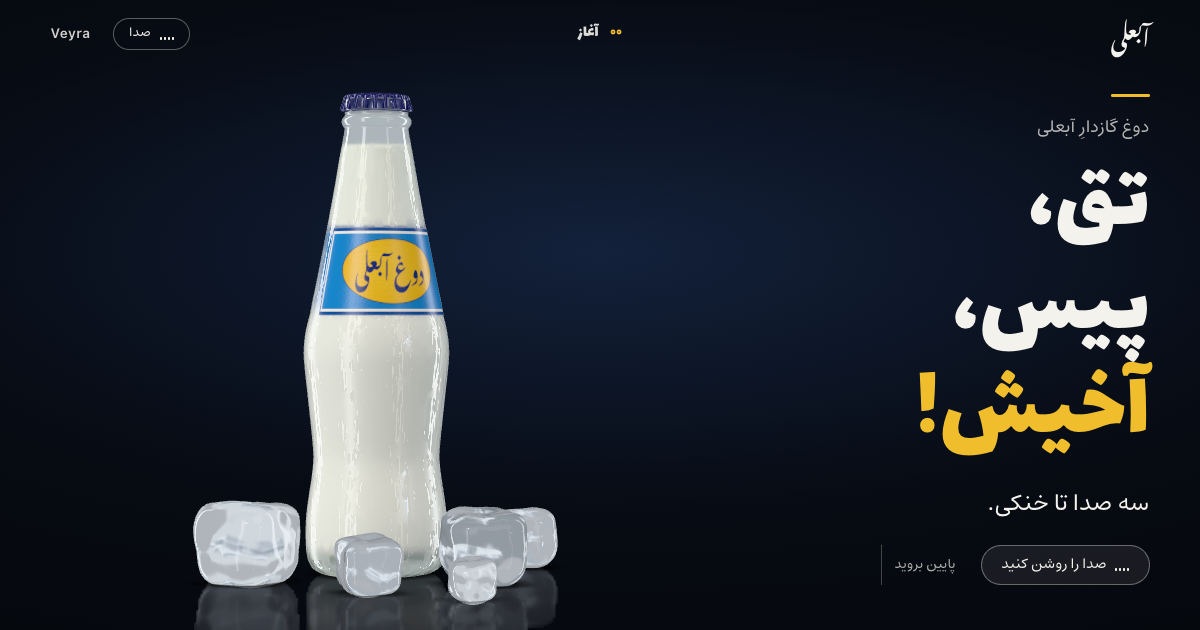
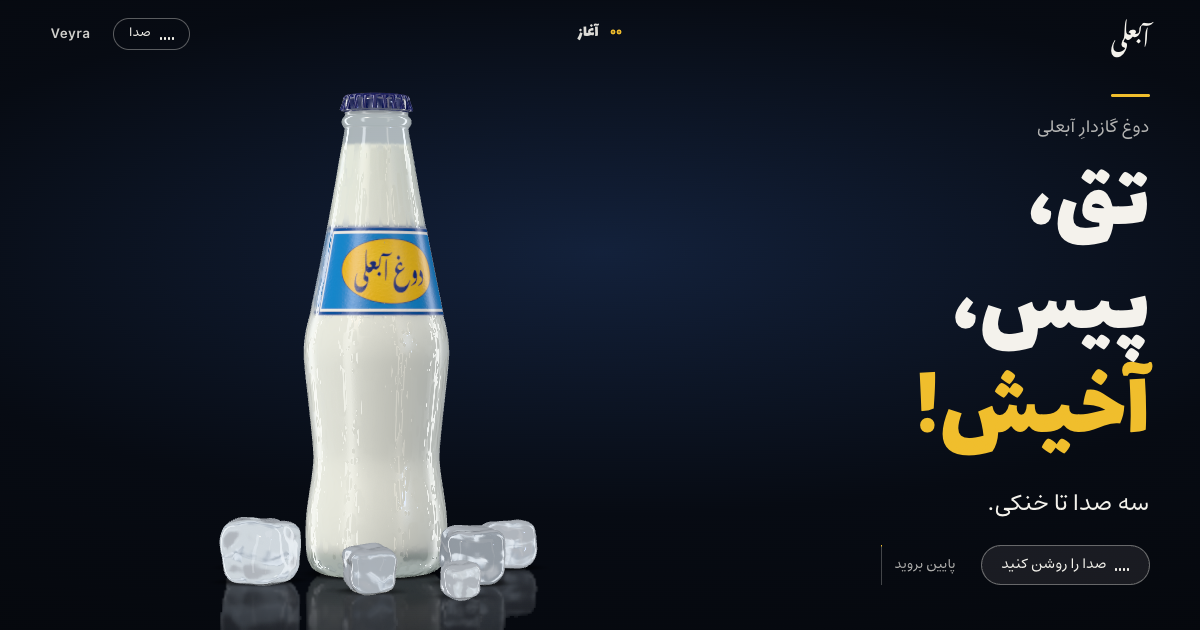
Ice at true scale, fewer condensation runs; recapture the share image
Tray ice is about 3 cm across (0.14 of the bottle's height); run tracks read as scratches when there are many.

diff --git a/src/gl/ice.ts b/src/gl/ice.ts
@@ -91,14 +91,15 @@ export function createIce(options: { quality: 'low' | 'medium' | 'high'; count?:
   })
   const count = options.count ?? (options.quality === 'low' ? 4 : 6)
   // Placement around the foot, mostly in front and to the sides (the camera's view).
+  // Tray ice is about 3 cm across: roughly 0.14 of the bottle's height.
   const spots: Array<[angle: number, dist: number, size: number]> = [
-    [-0.95, 0.3, 0.19],
-    [0.85, 0.31, 0.18],
-    [0.05, 0.36, 0.13],
-    [-2.0, 0.33, 0.16],
-    [1.95, 0.32, 0.15],
-    [0.45, 0.52, 0.09],
-    [-0.5, 0.55, 0.08],
+    [-0.95, 0.27, 0.145],
+    [0.85, 0.28, 0.135],
+    [0.05, 0.33, 0.105],
+    [-2.0, 0.3, 0.125],
+    [1.95, 0.29, 0.12],
+    [0.45, 0.46, 0.075],
+    [-0.5, 0.48, 0.07],
   ]
   for (let i = 0; i < Math.min(count, spots.length); i++) {
     const [angle, dist, size] = spots[i]!

diff --git a/src/gl/bottle.ts b/src/gl/bottle.ts
@@ -238,7 +238,7 @@ export function createBottle(options: { quality: 'low' | 'medium' | 'high' }): B
   const { outer, inner, glass: glassOutline } = bottleProfiles()
 
   // Condensation: droplets and mist on the cold glass.
-  const maps = condensationMaps({ size: q === 'high' ? 1024 : 512, seed: 5, mist: 0.7, roughness: [0.07, 0.4] })
+  const maps = condensationMaps({ size: q === 'high' ? 1024 : 512, seed: 5, mist: 0.7, runs: 0.03, roughness: [0.07, 0.4] })
   const dropNormal = new THREE.CanvasTexture(maps.normal)
   const dropRough = new THREE.CanvasTexture(maps.roughness)
   for (const t of [dropNormal, dropRough]) {
